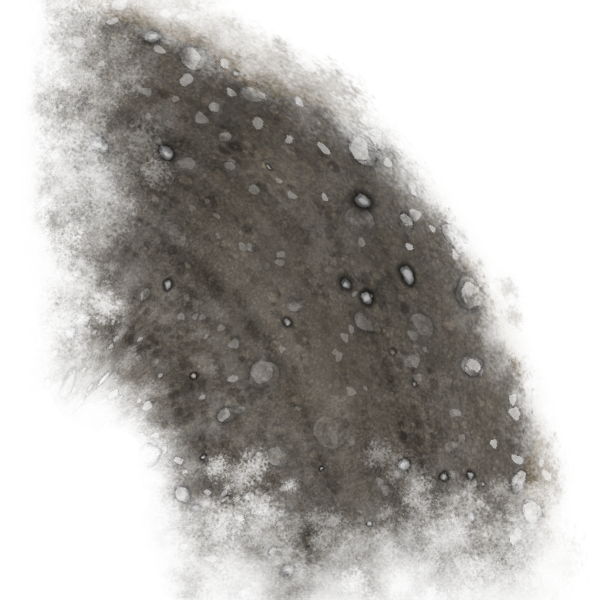
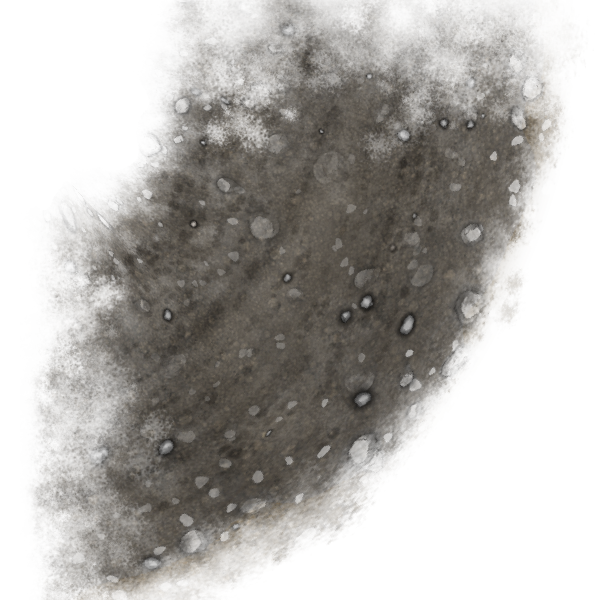
Add dry streambed assets.

diff --git a/src/Tiles/Streams.tsx b/src/Tiles/Streams.tsx
@@ -1,13 +1,15 @@
 import clsx from "clsx/lite";
 import waterStraight from "../assets/water-straight.png";
 import waterBend from "../assets/water-bend.png";
+import dryStraight from "../assets/dry-straight.png";
+import dryBend from "../assets/dry-bend.png";
 
 export function StreamVertical() {
   return (
     <>
       <Space />
       <Space />
-      <WaterStraight rotate={90} />
+      <StreamStraight rotate={90} isDry={false} />
     </>
   );
 }
@@ -17,27 +19,21 @@ interface StreamProps {
 }
 
 export function StreamBendLeft({ isDry }: StreamProps) {
-  if (isDry) {
-    return <> </>;
-  }
   return (
     <>
-      <WaterBend rotate={180} />
-      <WaterStraight />
-      <WaterBend />
+      <StreamBend isDry={isDry} rotate={180} />
+      <StreamStraight isDry={isDry} />
+      <StreamBend isDry={isDry} />
     </>
   );
 }
 
 export function StreamBendRight({ isDry }: StreamProps) {
-  if (isDry) {
-    return <> </>;
-  }
   return (
     <>
-      <WaterBend rotate={90} />
-      <WaterStraight />
-      <WaterBend rotate={180} flip={true} />
+      <StreamBend isDry={isDry} rotate={90} />
+      <StreamStraight isDry={isDry} />
+      <StreamBend isDry={isDry} rotate={180} flip={true} />
     </>
   );
 }
@@ -46,16 +42,17 @@ function Space() {
   return <div className={clsx("w-[100px]", "h-[100px]")}></div>;
 }
 
-interface OrientationProps {
+interface StreamProps {
+  isDry: boolean;
   flip?: boolean;
   rotate?: 90 | 180;
 }
 
-function WaterStraight({ rotate }: OrientationProps) {
+function StreamStraight({ isDry, rotate }: StreamProps) {
   return (
     <div className={clsx("w-[100px]", "h-[100px]")}>
       <img
-        src={waterStraight}
+        src={isDry ? dryStraight : waterStraight}
         className={clsx(
           "w-full",
           "h-full",
@@ -66,11 +63,11 @@ function WaterStraight({ rotate }: OrientationProps) {
   );
 }
 
-function WaterBend({ flip, rotate }: OrientationProps) {
+function StreamBend({ isDry, flip, rotate }: StreamProps) {
   return (
     <div className={clsx("w-[100px]", "h-[100px]")}>
       <img
-        src={waterBend}
+        src={isDry ? dryBend : waterBend}
         className={clsx(
           "w-full",
           "h-full",
@@ -81,8 +78,4 @@ function WaterBend({ flip, rotate }: OrientationProps) {
       />
     </div>
   );
-}
-
-function Dirt() {
-  return <div className={clsx("w-[100px]", "h-[100px]", "bg-yellow-500")} />;
 }

diff --git a/src/Milestones/MilestoneList.tsx b/src/Milestones/MilestoneList.tsx
@@ -30,7 +30,7 @@ export function MilestoneList({
       <div className={clsx("grid", "grid-cols-3", "gap-0", "w-[300px]")}>
         <StreamVertical />
         <StreamBendLeft isDry={false} />
-        {/* {milestones.map((milestone, idx) => {
+        {milestones.map((milestone, idx) => {
           const isLeft = idx % 2 === 0;
           const isLast = idx === milestones.length - 1;
           let poolState: "empty" | "low" | "full";
@@ -47,7 +47,7 @@ export function MilestoneList({
               {isLeft && <Pool state={poolState} />}
               <div
                 className={clsx(
-                  "col-span-5",
+                  "col-span-2",
                   "flex",
                   "flex-col",
                   "justify-center",
@@ -69,7 +69,7 @@ export function MilestoneList({
                 ))}
             </Fragment>
           );
-        })} */}
+        })}
       </div>
 
       <div>
